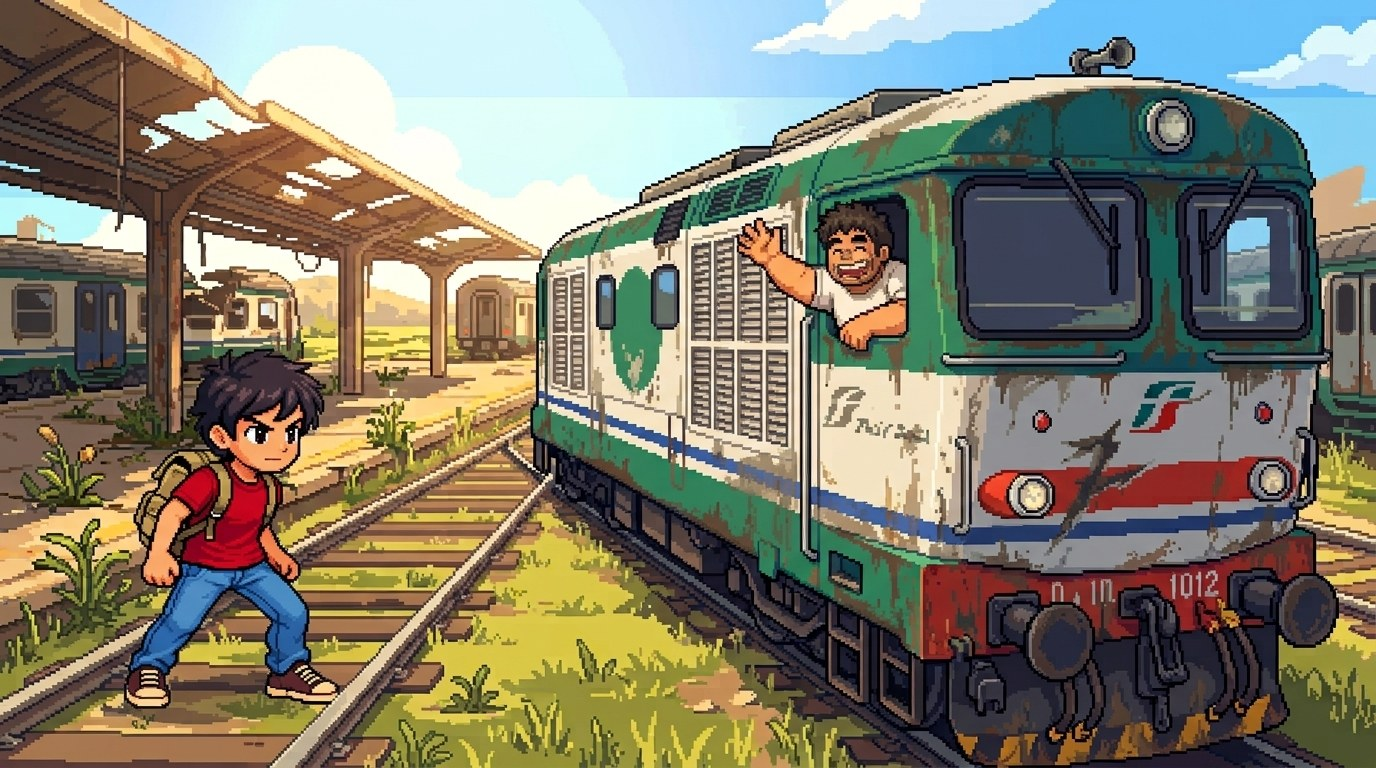
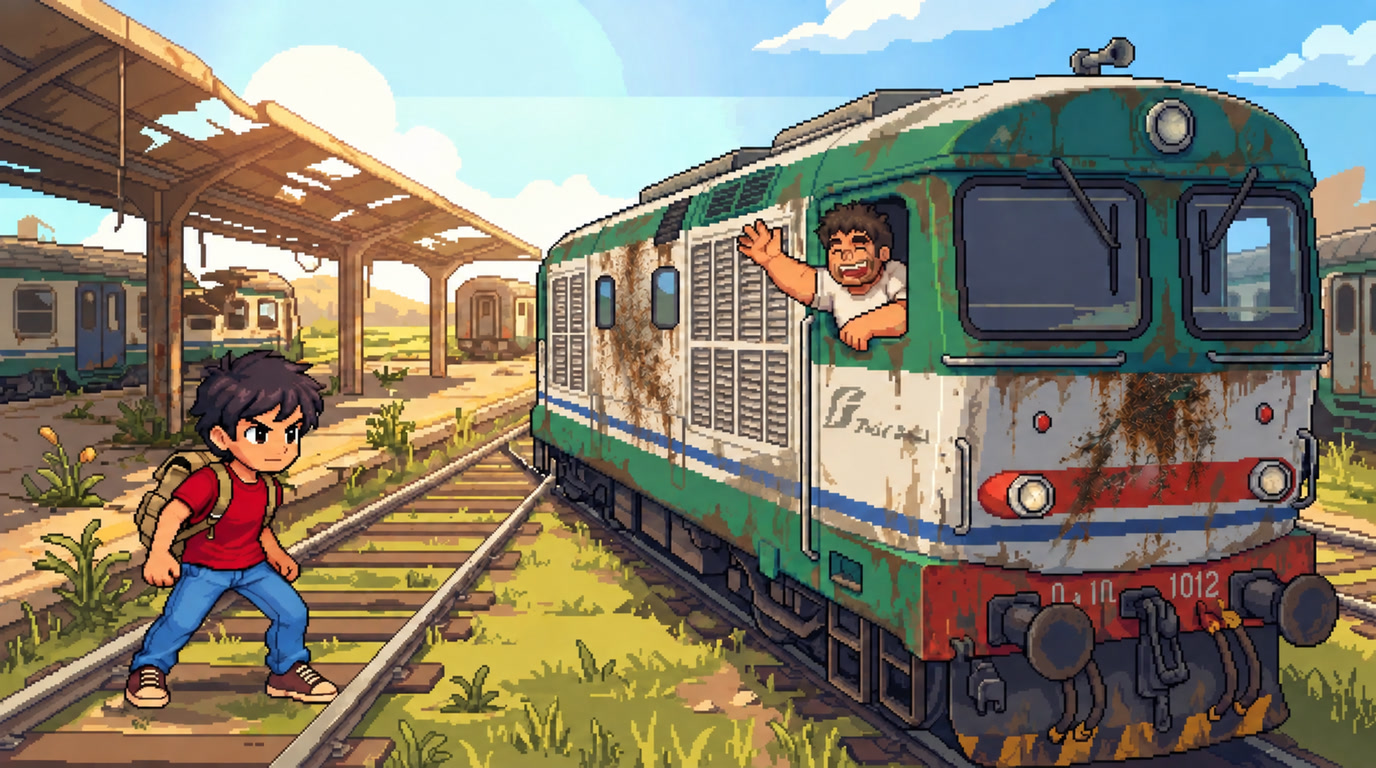
feat(stazione): completa la piattaforma di Molfetta

diff --git a/lib/core/levels/tutorial/station.dart b/lib/core/levels/tutorial/station.dart
@@ -85,22 +85,20 @@ const List<String> stationUnderpassRows = <String>[
 // underpass-rows-end
 
 /// The far side of the station, up the second flight `D`: one long
-/// platform under what is left of its canopy and, standing on the near
-/// track, a railcar `M` that is filthy but whole, both tracks running past
-/// it. `P` is its passenger door: still part of the wall until Luigi has
+/// platform under what is left of its canopy and a railcar `M` that is
+/// filthy but whole, filling the strip between the wall and the platform.
+/// `P` is its passenger door: still part of the wall until Luigi has
 /// been rescued, then the game opens it onto the train interior. Only the
-/// platform is walled at the sides `|`; the tracks run on past it.
+/// platform is walled at the sides `|`; the tracks run on past it. The
+/// repeated `l` and `r` cells carry the two damaged Molfetta station signs.
 // far-platform-rows-start
 const List<String> stationFarSideRows = <String>[
   'xxxxxxxxxxxxxxxxxxxxxxxxxxxxxxxxxxxx',
+  'xWWWllllllllWWWWWWWWWWWWrrrrrrrrWWWx',
   'xWWWWWWWWWWWWWWWWWWWWWWWWWWWWWWWWWWx',
-  'xWWWWWWWWWWWWWWWWWWWWWWWWWWWWWWWWWWx',
-  'x,,,,,,,,,,,,,,,,,,,,,,,,,,,,,,,,,,x',
-  'x----------------------------------x',
-  'x,,,,,,,,,,,,,,,,,,,,,,,,,,,,,,,,,,x',
-  'x,,,MMMMMMMMMMMMMMMMMMMMMMMMMMM,,,,x',
-  'x---MMMMMMMMMMMMMMMMMMMMMMMMMMM----x',
-  'x,,,MMMMPMMMMMMMMMMMMMMMMMMMMMM,,,,x',
+  'xMMMMMMMMMMMMMMMMMMMMMMMMMMMMMMMMMMx',
+  'xMMMMMMMMMMMMMMMMMMMMMMMMMMMMMMMMMMx',
+  'xMMMMMPMMMMMMMMMMMMMMMMMMMMMMMMMMMMx',
   '|==================================|',
   '|==nn======T=========nn=====T======|',
   '|=:=========================:======|',

diff --git a/test/tutorial_level_test.dart b/test/tutorial_level_test.dart
@@ -1949,6 +1949,29 @@ void main() {
       }
     });
 
+    test('the whole railcar backs onto the wall and fills the map', () {
+      final trainTop = stationFarSideRows.indexWhere(
+        (row) => row.contains('M'),
+      );
+      expect(trainTop, 3, reason: 'the wall ends immediately above it');
+      expect(
+        stationFarSideRows[trainTop - 1].substring(1, 35).split(''),
+        everyElement(isIn(<String>['W', 'l', 'r'])),
+      );
+      for (var y = trainTop; y < trainTop + 3; y++) {
+        expect(
+          stationFarSideRows[y].substring(1, 35).split(''),
+          everyElement(isIn(<String>['M', 'P'])),
+          reason: 'the train reaches both inner edges on row $y',
+        );
+      }
+      expect(
+        stationFarSideRows[trainTop + 2].indexOf('P'),
+        6,
+        reason: 'the extended train moves the door two cells west',
+      );
+    });
+
     test('the passenger door is closed by default and leads through two '
         'coaches to the locomotive when opened', () {
       final world = createTutorialWorld();

diff --git a/lib/game/tutorial/scripts/station_script.dart b/lib/game/tutorial/scripts/station_script.dart
@@ -18,6 +18,7 @@ final class StationScript extends TutorialScript {
   static const String planScene = 'assets/story/scene_station_plan.jpg';
   static const String northCapeScene =
       'assets/story/scene_station_north_cape.jpg';
+  static const String lockedDoorLine = 'La porta è chiusa';
 
   /// Luigi leaning out of the cab of the one train still in one piece.
   static const List<CutsceneFrame> reunionScene = <CutsceneFrame>[
@@ -66,6 +67,12 @@ final class StationScript extends TutorialScript {
   /// and only if Luigi was rescued from the hypermarket first.
   @override
   void onEvent(WorldEvent event) {
+    if (event case NoInteractionEvent(:final at)
+        when at == stationTrainDoorTile &&
+            !progress.memories.contains(StoryMemory.luigiRescued)) {
+      say(TutorialPrompt(const <TutorialLine>[TutorialLine(lockedDoorLine)]));
+      return;
+    }
     if (!progress.memories.contains(StoryMemory.luigiRescued)) {
       return;
     }

diff --git a/lib/core/levels/tutorial/tutorial_level.dart b/lib/core/levels/tutorial/tutorial_level.dart
@@ -98,9 +98,10 @@ const Legend duomoTowerRoofLegend = Legend(walls: 'x=', obstacles: '^>n');
 /// hijacked train's cars `m` and `C` and its overturned ones `V` and `H`,
 /// the railcar `M` and the rubble `#` shut the way like walls, the benches
 /// `T`, the ticket windows `K` and the canopy posts `n` can be seen over,
-/// and the gap by the burning car `?` is on fire.
+/// the far-platform signs `l` and `r` hang against the wall, and the gap by
+/// the burning car `?` is on fire.
 const Legend stationLegend = Legend(
-  walls: 'xWwMmCVHP#|',
+  walls: 'xWwMmCVHP#|lr',
   obstacles: 'TKn',
   fire: '?',
 );
@@ -297,7 +298,6 @@ final List<Place> tutorialPlaces = layOutPlaces(const <PlaceSpec>[
     id: PlaceId.romeTermini,
     rows: terminiRows,
     legend: terminiLegend,
-    art: PlaceId.stationFarSide,
     level: LevelId.rome,
   ),
   // Painted from its rows out of the tile atlas.

diff --git a/lib/game/stepbound_game.dart b/lib/game/stepbound_game.dart
@@ -489,6 +489,12 @@ final class StepboundGame extends FlameGame
       InteractGlintComponent(tile: duomoTowerLookoutTile, active: canInteract),
       InteractGlintComponent(tile: shoppingStreetFireTile, active: canInteract),
       InteractGlintComponent(tile: stationTrackFireTile, active: canInteract),
+      // Luigi has the key: until he is free, the shut passenger door can
+      // still be examined and explains why Mario cannot board.
+      InteractGlintComponent(
+        tile: stationTrainDoorTile,
+        active: () => !simulation.map.tileAt(stationTrainDoorTile).isWalkable,
+      ),
       // Between the two open books of the crate.
       InteractGlintComponent(
         tile: trainBookTiles.first,

diff --git a/test/tutorial_director_test.dart b/test/tutorial_director_test.dart
@@ -1211,6 +1211,13 @@ void main() {
       settle();
     }
 
+    test('before Luigi is rescued, the passenger door says it is locked', () {
+      director.onEvents(<WorldEvent>[NoInteractionEvent(stationTrainDoorTile)]);
+      settle();
+      expect(host.shown.single.single.text, StationScript.lockedDoorLine);
+      expect(StationScript.lockedDoorLine, 'La porta è chiusa');
+    });
+
     test('after Luigi is rescued, his meeting waits for the first step', () {
       progress.remember(StoryMemory.luigiRescued);
       world.player.component<PositionComponent>().position = onTheFarPlatform();

diff --git a/lib/core/levels/rome/termini.dart b/lib/core/levels/rome/termini.dart
@@ -3,7 +3,7 @@
 import 'package:stepbound/core/grid/grid_point.dart';
 
 /// Roma Termini, where the train from Molfetta pulls in: the first place
-/// of the Rome level. It is painted with the art of Molfetta's far
+/// of the Rome level. It is painted with the rules of Molfetta's far
 /// platform (station.dart), so it keeps to its glyphs: `x` darkness, `W`
 /// the back wall, `,` ballast, `-` the rails, `M` the train, `P` its
 /// passenger door, `=` the platform, `T` a bench, `n` a canopy post,

diff --git a/test/widget_test.dart b/test/widget_test.dart
@@ -1354,6 +1354,7 @@ void main() {
         // What the scripts answer when interacted with.
         barLockedDoorTile,
         duomoUpperLockedDoorTile,
+        stationTrainDoorTile,
       ]) {
         expect(glinted(tile), isTrue, reason: 'nothing glints near $tile');
       }

diff --git a/tools/build_tile_atlas.py b/tools/build_tile_atlas.py
@@ -2036,11 +2036,14 @@ def bar_backroom(atlas: Atlas, rng) -> dict:
 # The railcar is one object, not tiles: its grime runs across the grid. It
 # is painted at the size of the run of `M` in the far platform's rows;
 # test/levels/tile_atlas_test.dart fails if the rows stop agreeing.
-RAILCAR_TILES = (27, 3)
+RAILCAR_TILES = (34, 3)
+TERMINI_RAILCAR_TILES = (27, 3)
+STATION_SIGN_TILES = (8, 1)
 # Counted from the west end. The train faces east, like the locomotive
 # inside it: its red tail is at the west end and its door at the back,
 # like the train's own way in; the east end is the locomotive's nose.
-RAILCAR_DOOR_TILE = 4
+RAILCAR_DOOR_TILE = 5
+TERMINI_RAILCAR_DOOR_TILE = 4
 # How far back from the east end the nose starts to slope.
 RAILCAR_NOSE = 46
 
@@ -2117,6 +2120,19 @@ def paint_locomotive_nose(sprite: Image.Image) -> None:
             px[x, y] = station.METAL_DARK + (255,)
 
 
+def station_railcar_sprite(tiles, door_tile, open_door: bool) -> Image.Image:
+    """The intact train, with its red tail west and streamlined nose east."""
+    width, height = (n * TILE for n in tiles)
+    sprite = Image.new("RGBA", (width, height), TRANSPARENT)
+    station.paint_railcar(
+        ImageDraw.Draw(sprite), random.Random(SEED + 1),
+        (0, 0, width, height), wrecked=False,
+        door_x=door_tile * TILE, open_door=open_door,
+    )
+    paint_locomotive_nose(sprite)
+    return sprite
+
+
 def station_far_side(atlas: Atlas, rng) -> dict:
     """The rules that paint PlaceId.stationFarSide: the far platform, the
     track and the railcar Luigi is holed up in."""
@@ -2181,8 +2197,8 @@ def station_far_side(atlas: Atlas, rng) -> dict:
              [hall(0), hall(1), platform(0, False), platform(1, False)],
              [parity_key(), first_row_key("=", 2, "le")]),
         rule("ground", "DP", [hall(0), hall(1)], [parity_key()]),
-        rule("structures", "W", wall,
-             [neighbour_key(0, -1, "W"), pattern_key(7, 5, 9)]),
+        rule("structures", "Wlr", wall,
+             [neighbour_key(0, -1, "Wlr"), pattern_key(7, 5, 9)]),
         rule("structures", ":", [litter]),
         rule("structures", "D", ends(station.paint_stairs, "D"),
              [neighbour_key(-1, 0, "D"), neighbour_key(1, 0, "D")]),
@@ -2205,17 +2221,58 @@ def station_far_side(atlas: Atlas, rng) -> dict:
                        for beam in (False, True)],
                       [neighbour_key(1, 0, "n")]))
 
-    def railcar(open_door: bool) -> Image.Image:
-        # The painter's red cab at the west end is the train's tail; the
-        # east end is shaped into the locomotive's nose.
-        width, height = (n * TILE for n in RAILCAR_TILES)
+    def station_sign(text: str, broken: bool) -> Image.Image:
+        """A weathered Italian railway name board.
+
+        The two halves still identify Molfetta together: grime has hidden
+        MOLF on the west board, while the east board has lost its ETTA end.
+        """
+        width, height = (n * TILE for n in STATION_SIGN_TILES)
         sprite = Image.new("RGBA", (width, height), TRANSPARENT)
-        station.paint_railcar(
-            ImageDraw.Draw(sprite), random.Random(SEED + 1),
-            (0, 0, width, height), wrecked=False,
-            door_x=RAILCAR_DOOR_TILE * TILE, open_door=open_door,
-        )
-        paint_locomotive_nose(sprite)
+        d = ImageDraw.Draw(sprite)
+        blue = (26, 78, 151)
+        blue_dark = (14, 45, 93)
+        blue_light = (48, 104, 181)
+        white = (235, 239, 232)
+
+        if broken:
+            # The metal tears away directly after MOLF: there is no intact
+            # blue gap that could have held the missing letters.
+            d.polygon(
+                [(1, 1), (39, 1), (43, 4), (39, 7), (44, 10),
+                 (40, 14), (1, 14)],
+                fill=blue,
+            )
+            d.line([(1, 1), (39, 1), (43, 4)], fill=white, width=1)
+            d.line([(1, 14), (40, 14)], fill=white, width=1)
+            d.line([(1, 1), (1, 14)], fill=white, width=1)
+            d.line([(39, 2), (36, 7), (42, 10), (38, 14)],
+                   fill=blue_dark, width=2)
+            d.polygon([(48, 3), (60, 2), (57, 7), (46, 8)],
+                      fill=blue_dark)
+            d.polygon([(52, 4), (58, 3), (56, 5)], fill=blue_light)
+            d.polygon([(69, 10), (78, 8), (75, 14), (66, 14)],
+                      fill=blue)
+            paint_text(d, 9, 3, text, white, scale=2)
+        else:
+            rect(d, 0, 0, width, height, blue_dark)
+            rect(d, 1, 1, width - 2, height - 2, white)
+            rect(d, 2, 2, width - 4, height - 4, blue)
+            paint_text(d, width - 39, 3, text, white, scale=2)
+
+            # Thick soot, rust and rain streaks conceal the missing MOLF.
+            grime = (55, 58, 52)
+            soot = (31, 35, 34)
+            rust = (101, 70, 43)
+            d.polygon([(2, 2), (83, 2), (88, 5), (84, 8), (89, 13),
+                       (2, 13)], fill=grime)
+            d.polygon([(2, 2), (69, 2), (83, 6), (76, 9), (24, 7)],
+                      fill=soot)
+            d.line([(12, 3), (12, 13)], fill=rust, width=2)
+            d.line([(55, 2), (58, 12)], fill=rust, width=1)
+            d.line([(82, 4), (85, 13)], fill=soot, width=2)
+            d.point([(18, 10), (63, 5), (86, 11)], fill=(142, 129, 100))
+
         return sprite
 
     return {
@@ -2224,12 +2281,20 @@ def station_far_side(atlas: Atlas, rng) -> dict:
         "rules": rules,
         "objects": [
             {"glyph": "M", "image": "station_railcar.png",
-             "tiles": list(RAILCAR_TILES), "sprite": railcar(False),
+             "tiles": list(RAILCAR_TILES),
+             "sprite": station_railcar_sprite(
+                 RAILCAR_TILES, RAILCAR_DOOR_TILE, False),
              "whenOpen": "station_railcar_open.png",
-             "openSprite": railcar(True)},
+             "openSprite": station_railcar_sprite(
+                 RAILCAR_TILES, RAILCAR_DOOR_TILE, True)},
+            {"glyph": "l", "image": "station_sign_etta.png",
+             "tiles": list(STATION_SIGN_TILES),
+             "sprite": station_sign("ETTA", broken=False)},
+            {"glyph": "r", "image": "station_sign_molf.png",
+             "tiles": list(STATION_SIGN_TILES),
+             "sprite": station_sign("MOLF", broken=True)},
         ],
     }
-
 
 
 # ------------------------------------------------------ the barracks' art
@@ -4282,6 +4347,22 @@ def build() -> tuple[Atlas, dict]:
     places = {
         name: make(atlas, random.Random(f"{SEED}/{name}"))
         for name, make in sorted(PLACES.items())
+    }
+    # Termini keeps the same material rules and railcar, but has its own
+    # art key so Molfetta's two place-name boards do not follow it to Rome.
+    far_side = places["stationFarSide"]
+    places["romeTermini"] = {
+        **far_side,
+        "objects": [{
+            "glyph": "M",
+            "image": "termini_railcar.png",
+            "tiles": list(TERMINI_RAILCAR_TILES),
+            "sprite": station_railcar_sprite(
+                TERMINI_RAILCAR_TILES, TERMINI_RAILCAR_DOOR_TILE, False),
+            "whenOpen": "termini_railcar_open.png",
+            "openSprite": station_railcar_sprite(
+                TERMINI_RAILCAR_TILES, TERMINI_RAILCAR_DOOR_TILE, True),
+        }],
     }
     manifest = {
         "format": "stepbound-tile-atlas-v1",
